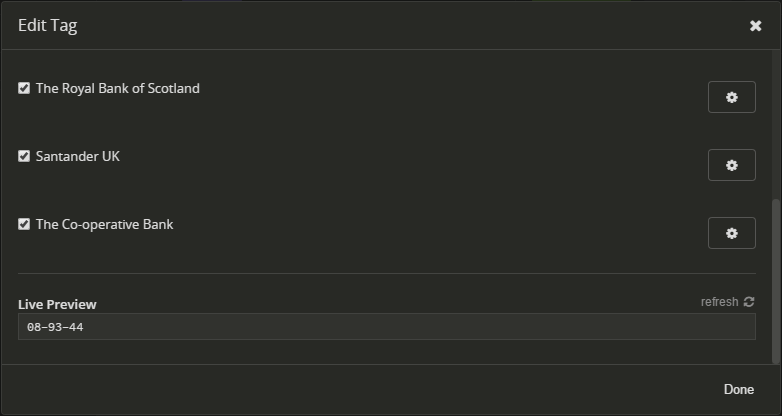
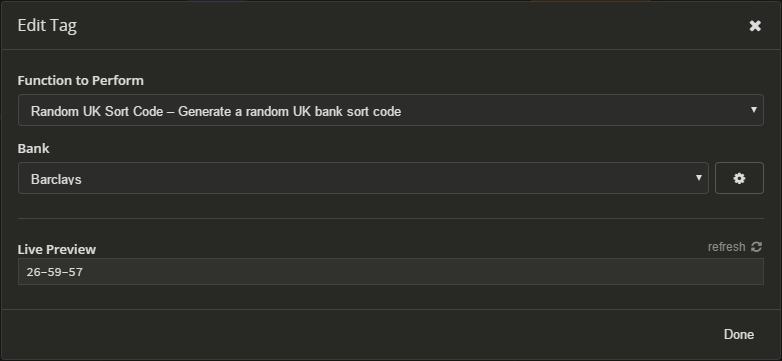
Simplify logic by converting all arguments to a single enum

diff --git a/test.js b/test.js
@@ -4,7 +4,7 @@ import {templateTags} from '.';
 const inRange = require('in-range');
 
 test('Barclays', async t => {
-	const ret = await templateTags[0].run('', true, false, false, false, false, false);
+	const ret = await templateTags[0].run('', 'barclays');
 	const retArr = ret.split('-');
 	t.true(inRange(Number(retArr[0]), 20, 29));
 	t.true(inRange(Number(retArr[1]), 0, 99));
@@ -12,7 +12,7 @@ test('Barclays', async t => {
 });
 
 test('HSBC', async t => {
-	const ret = await templateTags[0].run('', false, true, false, false, false, false);
+	const ret = await templateTags[0].run('', 'hsbc');
 	const retArr = ret.split('-');
 	t.true(inRange(Number(retArr[0]), 40, 49));
 	t.true(inRange(Number(retArr[1]), 0, 99));
@@ -20,7 +20,7 @@ test('HSBC', async t => {
 });
 
 test('Lloyds', async t => {
-	const ret = await templateTags[0].run('', false, false, true, false, false, false);
+	const ret = await templateTags[0].run('', 'lloyds');
 	const retArr = ret.split('-');
 	t.true(inRange(Number(retArr[0]), 30, 39));
 	t.true(inRange(Number(retArr[1]), 0, 99));
@@ -28,7 +28,7 @@ test('Lloyds', async t => {
 });
 
 test('Santander', async t => {
-	const ret = await templateTags[0].run('', false, false, false, true, false, false);
+	const ret = await templateTags[0].run('', 'santander');
 	const retArr = ret.split('-');
 	t.is(retArr[0], '09');
 	t.true(inRange(Number(retArr[1]), 0, 19));
@@ -36,7 +36,7 @@ test('Santander', async t => {
 });
 
 test('Co-op', async t => {
-	const ret = await templateTags[0].run('', false, false, false, false, true, false);
+	const ret = await templateTags[0].run('', 'coop');
 	const retArr = ret.split('-');
 	t.is(retArr[0], '08');
 	t.true(inRange(Number(retArr[1]), 60, 61) || inRange(Number(retArr[1]), 90, 99));
@@ -44,7 +44,7 @@ test('Co-op', async t => {
 });
 
 test('RBS', async t => {
-	const ret = await templateTags[0].run('', false, false, false, false, false, true);
+	const ret = await templateTags[0].run('', 'rbs');
 	const retArr = ret.split('-');
 	t.true(inRange(Number(retArr[0]), 15, 18));
 	t.true(inRange(Number(retArr[1]), 0, 99));
@@ -52,6 +52,6 @@ test('RBS', async t => {
 });
 
 test('Default', async t => {
-	const ret = await templateTags[0].run('', false, false, false, false, false, false);
-	t.is(ret, 0);
+	const ret = await templateTags[0].run('', '');
+	t.is(ret, 'Error - No bank selected');
 });

diff --git a/index.js b/index.js
@@ -7,65 +7,21 @@ module.exports.templateTags = [{
 	description: 'Generate a random UK bank sort code',
 	args: [
 		{
-			displayName: 'Barclays',
-			description: 'Barclays',
-			type: 'boolean',
-			defaultValue: true
-		},
-		{
-			displayName: 'HSBC',
-			description: 'HSBC',
-			type: 'boolean',
-			defaultValue: false
-		},
-		{
-			displayName: 'Lloyds',
-			description: 'Lloyds',
-			type: 'boolean',
-			defaultValue: false
-		},
-		{
-			displayName: 'Santander UK',
-			description: 'Santander UK',
-			type: 'boolean',
-			defaultValue: false
-		},
-		{
-			displayName: 'The Co-operative Bank',
-			description: 'The Co-operative Bank',
-			type: 'boolean',
-			defaultValue: false
-		},
-		{
-			displayName: 'The Royal Bank of Scotland',
-			description: 'The Royal Bank of Scotland',
-			type: 'boolean',
-			defaultValue: false
+			displayName: 'Bank',
+			type: 'enum',
+			options: [
+				{displayName: 'Barclays', value: 'barclays'},
+				{displayName: 'HSBC', value: 'hsbc'},
+				{displayName: 'Lloyds', value: 'lloyds'},
+				{displayName: 'Santander UK', value: 'santander'},
+				{displayName: 'The Co-operative Bank', value: 'coop'},
+				{displayName: 'The Royal Bank of Scotland', value: 'rbs'}
+			]
 		}
 	],
-	async run(context, barclays, hsbc, lloyds, santander, coop, rbs) { // eslint-disable-line max-params
-		const options = [];
-		if (barclays) {
-			options.push('barclays');
-		}
-		if (hsbc) {
-			options.push('hsbc');
-		}
-		if (lloyds) {
-			options.push('lloyds');
-		}
-		if (santander) {
-			options.push('santander');
-		}
-		if (coop) {
-			options.push('coop');
-		}
-		if (rbs) {
-			options.push('rbs');
-		}
-		const option = options[Math.floor(Math.random() * (options.length - 0))];
-    // Based on https://en.wikipedia.org/wiki/Sort_code#London_clearings
-		switch (option) {
+	async run(context, bank = 'barclays') {
+		// Based on https://en.wikipedia.org/wiki/Sort_code#London_clearings
+		switch (bank) {
 			case 'barclays':
 				return `${randomInt(20, 29)}-${zeroFill(2, randomInt(0, 99))}-${zeroFill(2, randomInt(0, 99))}`;
 			case 'hsbc':
@@ -83,7 +39,7 @@ module.exports.templateTags = [{
 			case 'rbs':
 				return `${randomInt(15, 18)}-${zeroFill(2, randomInt(0, 99))}-${zeroFill(2, randomInt(0, 99))}`;
 			default:
-				return 0;
+				return 'Error - No bank selected';
 		}
 	}
 }];
